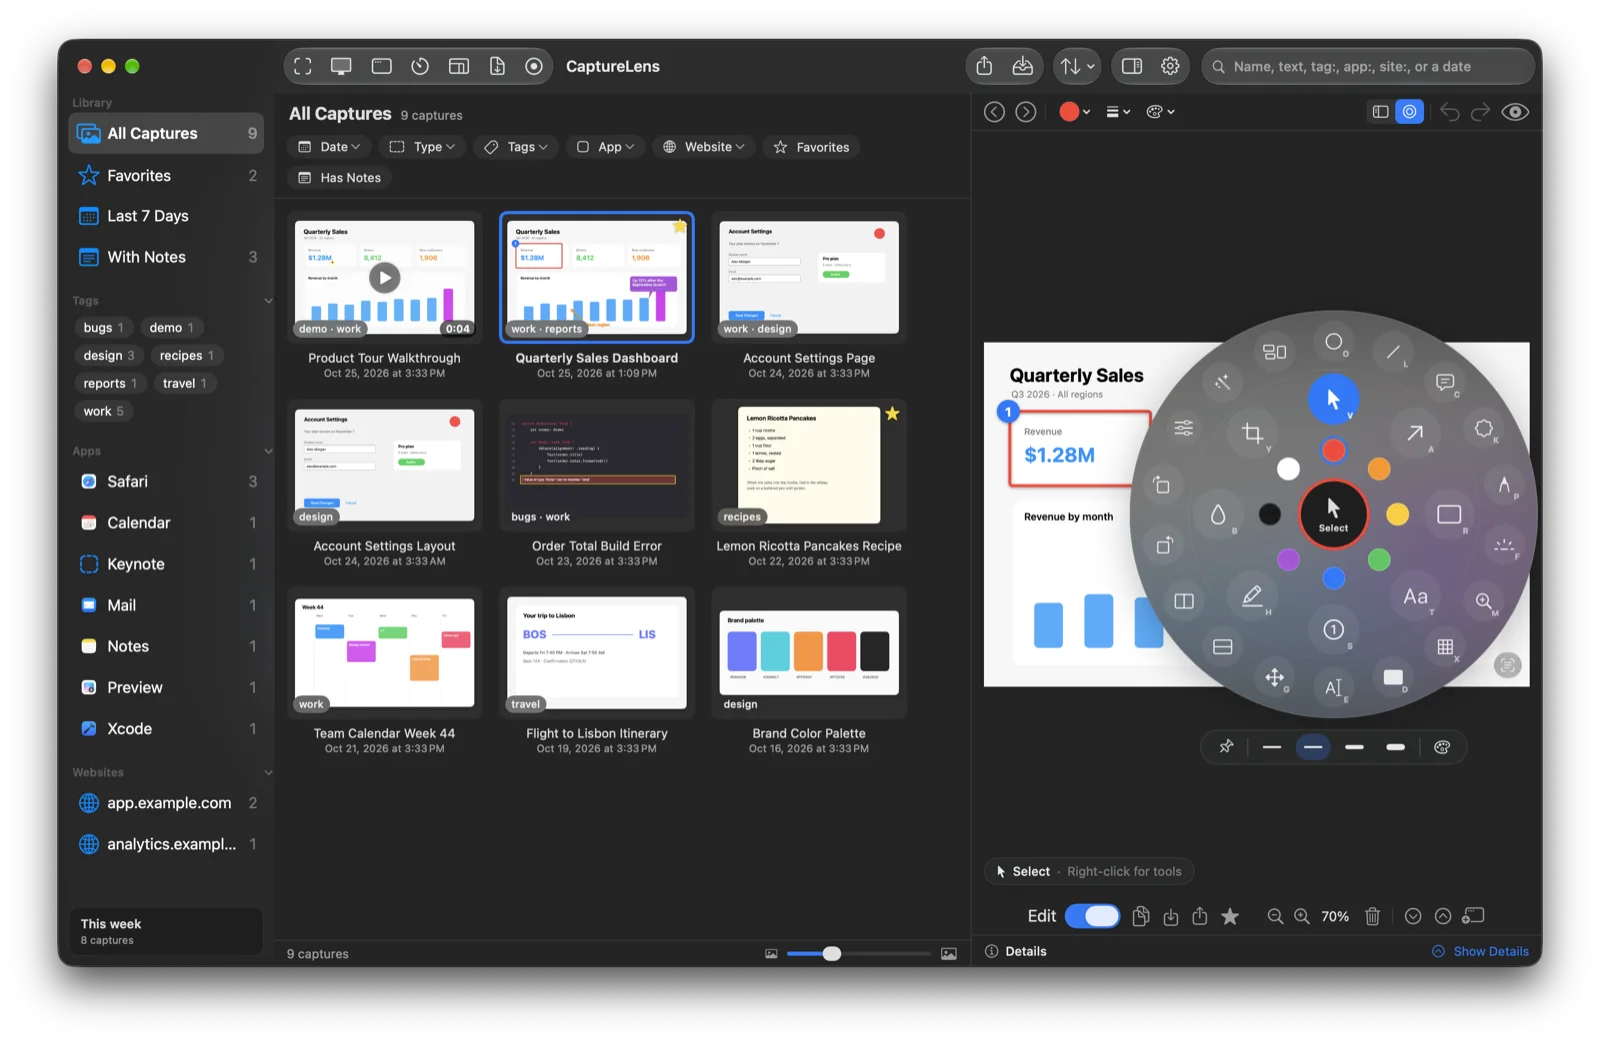
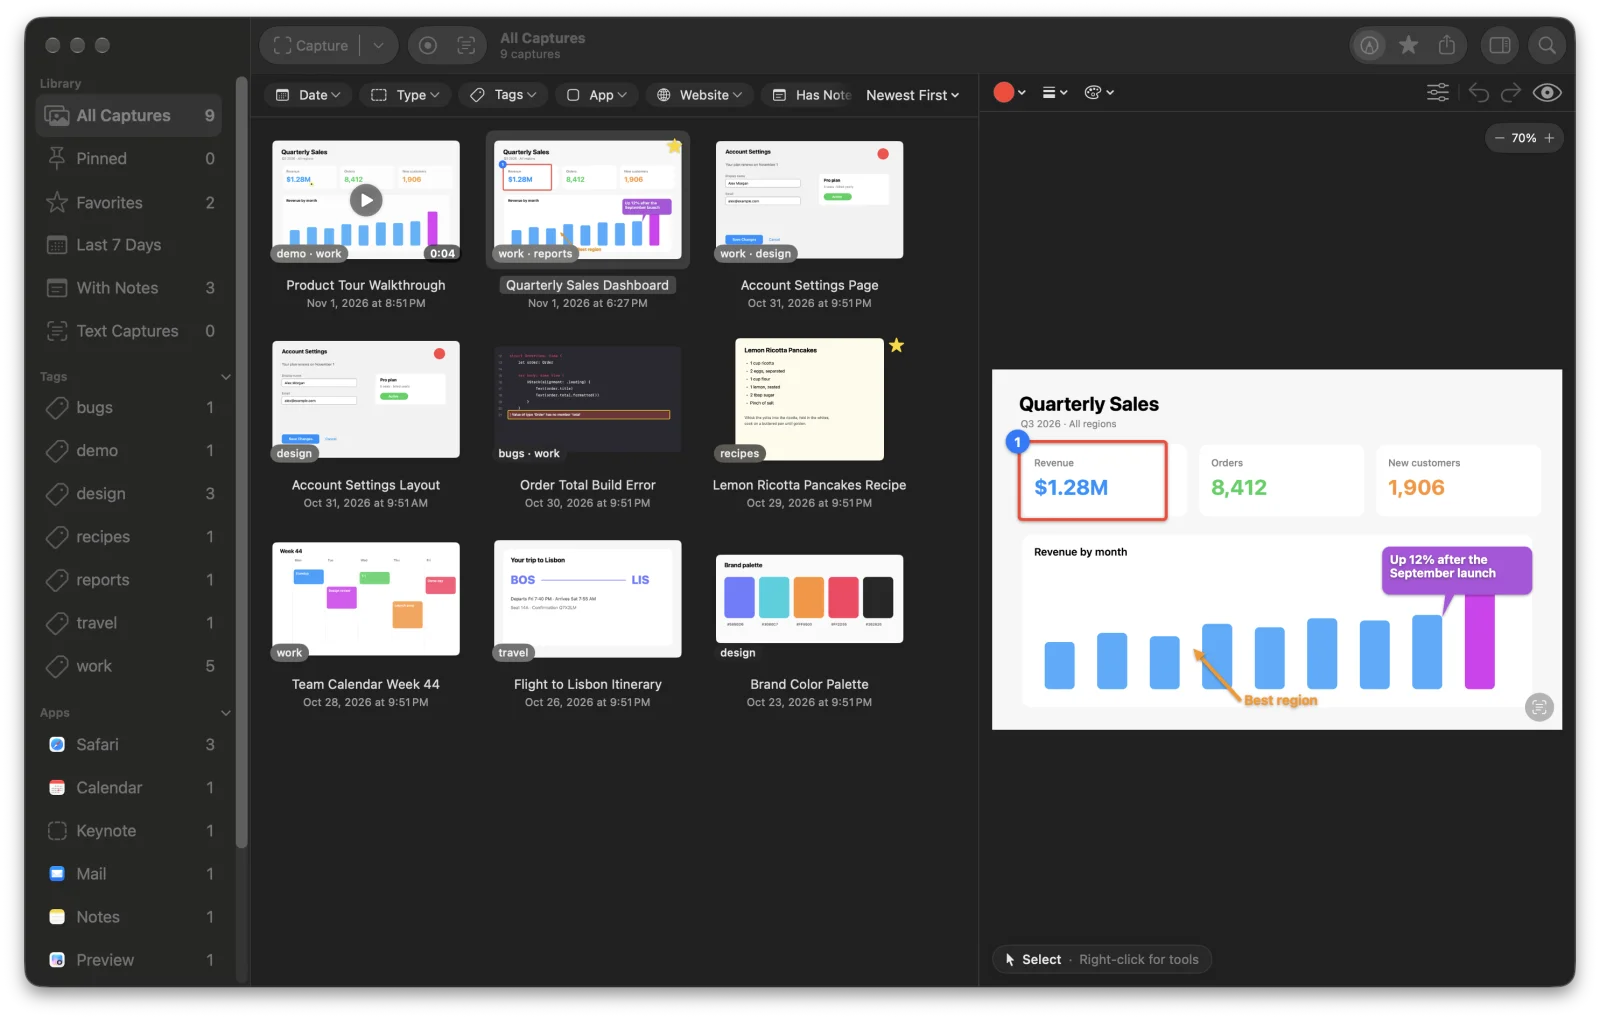
README: screenshots of the redesigned library
Retaken with the shot harness on the 1.1.8 layout: the library with the
details inspector, markup with the tool strip, the dial, Smart Move, video
and the Record panel. The shot run now brings the test copy to the front,
so windows are shot active, and adds Light, no-details and preset-button
shots.

diff --git a/Sources/CaptureLens/DebugShots.swift b/Sources/CaptureLens/DebugShots.swift
@@ -14,6 +14,9 @@ enum DebugShots {
         let env = ProcessInfo.processInfo.environment
         guard env["CAPTURELENS_DEFAULTS_SUITE"] != nil, env["CAPTURELENS_LIBRARY_FOLDER"] != nil else { exit(2) }
         try? FileManager.default.createDirectory(at: out, withIntermediateDirectories: true)
+        // A regular app can be brought to the front (`open` the running copy), so its windows
+        // are shot active, as people see them.
+        NSApp.setActivationPolicy(.regular)
         AppDefaults.store.set("dark", forKey: AppAppearance.key)
         AppDefaults.store.set("left", forKey: "editor.palettePlacement")
         let prefs = Preferences.shared
@@ -102,6 +105,15 @@ enum DebugShots {
 
             // Smart Move on the settings page, the pointer over its button; the toolbar on the
             // right, clear of the button.
+            // The picture fills the window: the captures and details folded away. First the
+            // marked-up chart with the tools beside it, then Smart Move with them on the right.
+            library.state.showInfo = false
+            library.state.foldedSide = .captures
+            library.show(select: ids.dashboard)
+            try? await Task.sleep(for: .seconds(1.5))
+            CanvasZoom.shared.fitRequested += 1
+            try? await Task.sleep(for: .seconds(0.5))
+            await shoot(window, "markup-full", out: out, note: note)
             AppDefaults.store.set("right", forKey: "editor.palettePlacement")
             library.show(select: ids.settings)
             try? await Task.sleep(for: .seconds(1.5))
@@ -118,6 +130,8 @@ enum DebugShots {
             try? await Task.sleep(for: .seconds(1))
             await shoot(window, "smart-move", out: out, note: note)
             editor.pick(.select)
+            library.state.foldedSide = nil
+            library.state.showInfo = true
             AppDefaults.store.set("left", forKey: "editor.palettePlacement")
 
             // Simplify, shown as the finished picture.

diff --git a/README.md b/README.md
@@ -7,7 +7,7 @@ need means opening them one by one. SnagAnything keeps every capture in a librar
 named from what's in it ("Quarterly Revenue Chart", "Xcode Build Error") by Apple Intelligence on your Mac, and
 you can find it again by its name, the date, its tags or notes, or any text that appears in the picture.
 
-<p align="center"><img src="docs/images/capturelens-library-editor.webp" width="800" alt="The SnagAnything library with nine sample captures, filters for tags, apps and websites, and a sales chart open beside them with the markup toolbar"></p>
+<p align="center"><img src="docs/images/capturelens-library-editor.webp" width="800" alt="The SnagAnything library with nine sample captures, filters for tags, apps and websites, and a marked-up sales chart beside them with the markup tools, and its name, tags and notes at the right"></p>
 
 SnagAnything also:
 - **Captures** the whole screen, one window (even where others cover it), an area you drag out, or a frame of an
@@ -36,8 +36,8 @@ SnagAnything also:
   copied, ready to paste. The picture is kept in the library too, with the copied words along its thumbnail.
 - **Organizes** with tags, favorites and notes, and filters by date, type, tag, app or website in
   one click.
-- **Lays out the library your way**: drag the lines between the captures, the picture and its details, fold
-  either side away, and open a capture beside the captures or in a window of its own. The layout follows you to
+- **Lays out the library your way**: drag the line between the captures and the picture, hide the captures, the
+  picture or the details (⌥⌘1, ⌥⌘2, ⌃⌘I), and open a capture beside the captures or in a window of its own. The layout follows you to
   your other Macs as proportions, so it fits each screen.
 - **Remembers where a capture came from**: the app, the window, and in a browser, the web page.
 - **Brings your old library along**: Import from Snagit moves Snagit captures in with their dates, apps, web
@@ -66,8 +66,8 @@ Requires macOS 26 or later. Automatic names need Apple Intelligence turned on.
 
 <table>
 <tr>
-<td width="50%"><img src="docs/images/capturelens-annotate.jpg" alt="A sample sales chart marked up with a numbered box, a callout and an arrow, above the markup toolbar"><br><sub><b>Markup.</b> Boxes, arrows, callouts and steps that stay editable.</sub></td>
-<td width="50%"><img src="docs/images/capturelens-dial.webp" alt="The markup tools as a radial dial over a capture, with colors inside and line widths underneath"><br><sub><b>Toolbar or dial.</b> The tools as a radial dial, pinned open.</sub></td>
+<td width="50%"><img src="docs/images/capturelens-annotate.webp" alt="A sample sales chart marked up with a numbered box, a callout and an arrow, with the markup tools in a strip beside it"><br><sub><b>Markup.</b> Boxes, arrows, callouts and steps that stay editable.</sub></td>
+<td width="50%"><img src="docs/images/capturelens-dial.webp" alt="The markup tools as a radial dial over a capture, with colors inside and line widths underneath"><br><sub><b>Strip or dial.</b> The tools as a radial dial, pinned open.</sub></td>
 </tr>
 <tr>
 <td width="50%"><img src="docs/images/capturelens-smart-move.webp" alt="Smart Move outlining the fields, buttons and lines of text in a sample Account Settings capture"><br><sub><b>Smart Move.</b> Pick up parts of the picture and move them.</sub></td>
@@ -98,7 +98,9 @@ away, choose Open Captures in Library in the menu bar menu; hold ⌥ while click
 Presets are saved ways to capture, each with its own shortcut: what to capture, a countdown, an exact size, and
 whether to copy. Make and change them in Settings › Presets.
 
-In the library, search finds words in names, tags, notes and the text in the pictures. It also understands
+In the library, the Capture button captures with your first preset (its arrow lists them all), and Markup, the
+star and Share act on the selected capture; everything else is in the menus and the right-click menu. Search
+finds words in names, tags, notes and the text in the pictures. It also understands
 `tag:work`, `app:safari`, `site:example.com` and dates such as `yesterday` or `March 3`.
 
 Actions can also be run from a URL, for ToolHUD, Shortcuts or scripts: `snaganything://capture`, `screen`,
